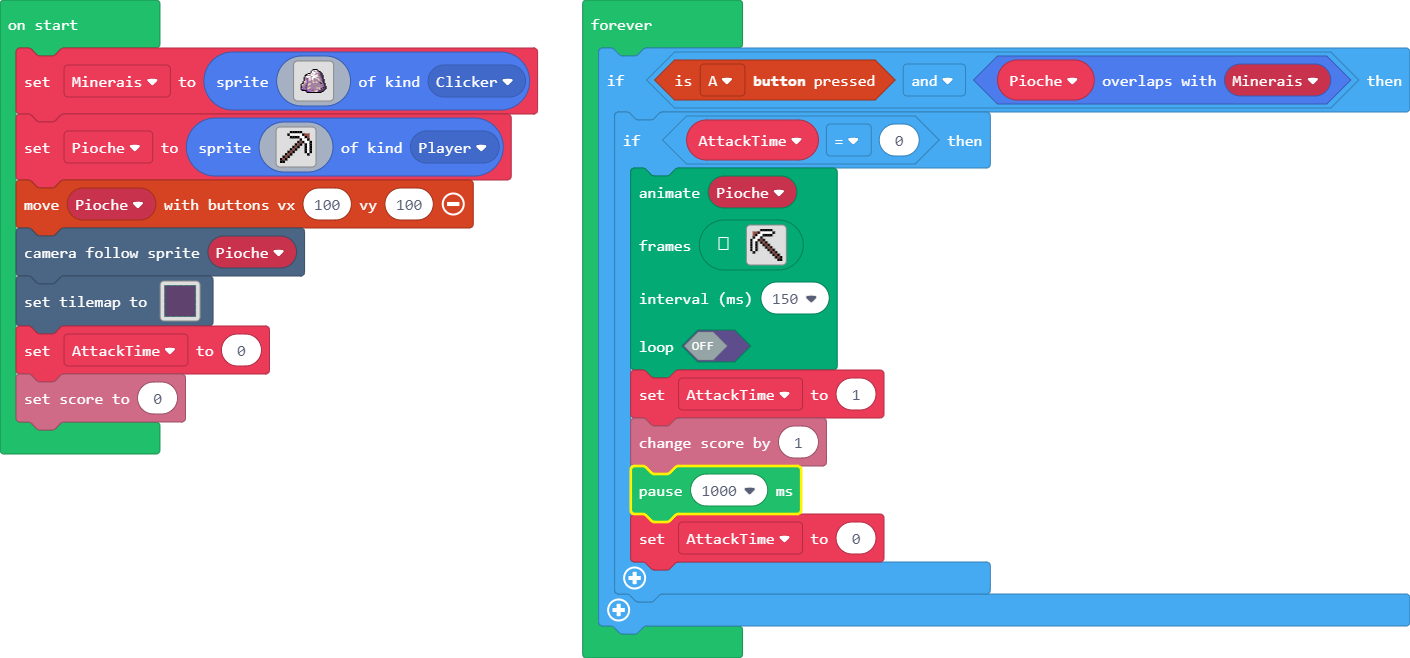
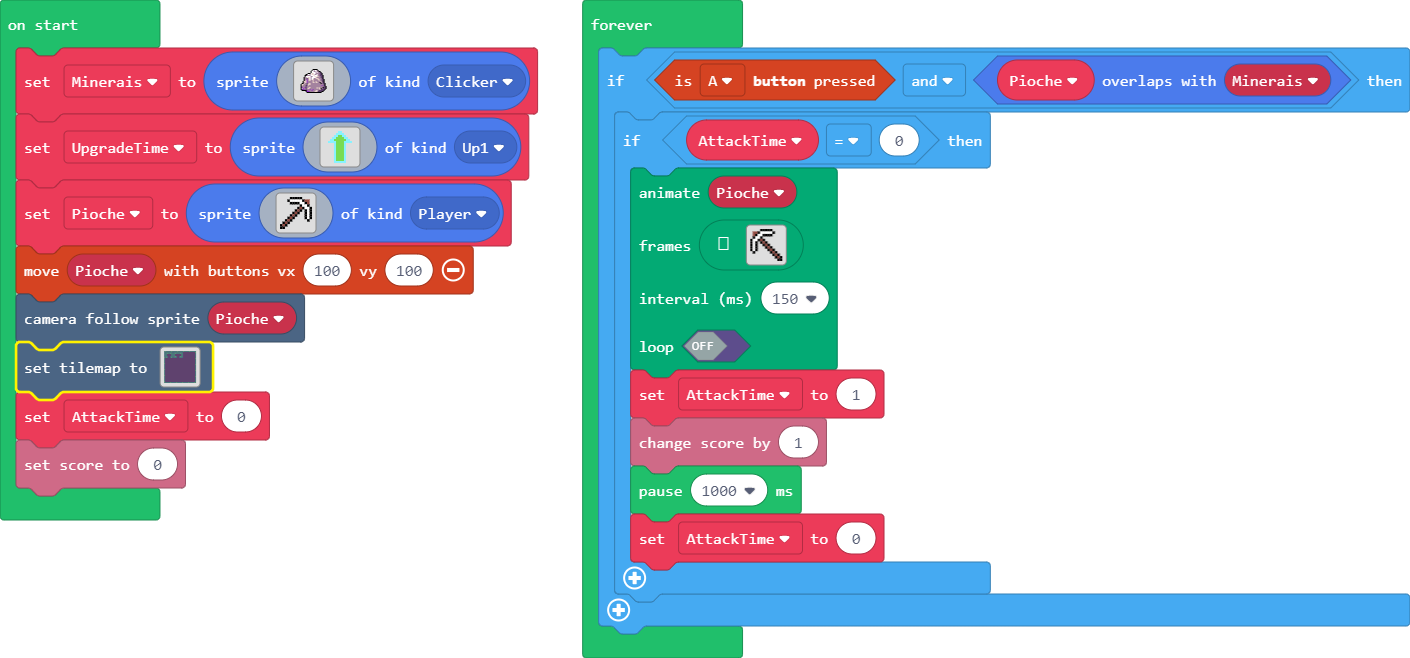
Update main.blocks, main.ts

Changed region(s): [[0.0, 0.152, 0.3745, 0.7903], [0.4369, 0.7599, 0.5617, 0.7903], [0.4369, 0.6991, 0.5617, 0.7295]]

diff --git a/main.ts b/main.ts
@@ -1,5 +1,6 @@
 namespace SpriteKind {
     export const Clicker = SpriteKind.create()
+    export const Up1 = SpriteKind.create()
 }
 namespace myTiles {
     //% blockIdentity=images._tile
@@ -56,6 +57,24 @@ let Minerais = sprites.create(img`
 . . . . . . . . . . . . . . . . . . . . . . . . . . . . . . . . 
 . . . . . . . . . . . . . . . . . . . . . . . . . . . . . . . . 
 `, SpriteKind.Clicker)
+let UpgradeTime = sprites.create(img`
+. . . . . . . 9 9 . . . . . . . 
+. . . . . . 9 9 9 9 . . . . . . 
+. . . . . 9 9 7 7 9 9 . . . . . 
+. . . . 9 9 7 7 7 7 9 9 . . . . 
+. . . 9 9 7 7 7 7 7 7 9 9 . . . 
+. . 9 9 9 9 7 7 7 7 9 9 9 9 . . 
+. . . . . 9 7 7 7 7 9 . . . . . 
+. . . . . 9 7 7 7 7 9 . . . . . 
+. . . . . 9 7 7 7 7 9 . . . . . 
+. . . . . 9 7 7 7 7 9 . . . . . 
+. . . . . 9 7 7 7 7 9 . . . . . 
+. . . . . 9 7 7 7 7 9 . . . . . 
+. . . . . 9 7 7 7 7 9 . . . . . 
+. . . . . 9 7 7 7 7 9 . . . . . 
+. . . . . 9 7 7 7 7 9 . . . . . 
+. . . . . 9 9 9 9 9 9 . . . . . 
+`, SpriteKind.Up1)
 let Pioche = sprites.create(img`
 . . . . f f f f f . . . . 
 . . . f 1 1 1 1 1 f e e . 
@@ -74,15 +93,15 @@ f f . . . . . . . . . . .
 controller.moveSprite(Pioche, 100, 100)
 scene.cameraFollowSprite(Pioche)
 tiles.setTilemap(tiles.createTilemap(
[2 lines of base64/hex data omitted]
             img`
 2 2 2 2 2 2 2 2 2 2 2 2 2 2 2 2 2 2 2 2 2 2 2 2 2 2 2 2 2 2 2 2 
-2 . . . . . . . . . . . . . . . . . . . . . . . . . . . . . . 2 
-2 . . . . . . . . . . . . . . . . . . . . . . . . . . . . . . 2 
-2 . . . . . . . . . . . . . . . . . . . . . . . . . . . . . . 2 
-2 . . . . . . . . . . . . . . . . . . . . . . . . . . . . . . 2 
-2 . . . . . . . . . . . . . . . . . . . . . . . . . . . . . . 2 
-2 . . . . . . . . . . . . . . . . . . . . . . . . . . . . . . 2 
+2 2 2 2 2 2 2 2 2 . . . . . . . . . . . . . . . . . . . . . . 2 
+2 2 2 2 2 2 2 2 2 . . . . . . . . . . . . . . . . . . . . . . 2 
+2 2 2 . . . . 2 2 . . . . . . . . . . . . . . . . . . . . . . 2 
+2 2 2 . . . . 2 2 . . . . . . . . . . . . . . . . . . . . . . 2 
+2 2 2 2 . . 2 2 2 . . . . . . . . . . . . . . . . . . . . . . 2 
+2 2 2 2 . . 2 2 2 . . . . . . . . . . . . . . . . . . . . . . 2 
 2 . . . . . . . . . . . . . . . . . . . . . . . . . . . . . . 2 
 2 . . . . . . . . . . . . . . . . . . . . . . . . . . . . . . 2 
 2 . . . . . . . . . . . . . . . . . . . . . . . . . . . . . . 2 
@@ -109,7 +128,7 @@ tiles.setTilemap(tiles.createTilemap(
 2 . . . . . . . . . . . . . . . . . . . . . . . . . . . . . . 2 
 2 2 2 2 2 2 2 2 2 2 2 2 2 2 2 2 2 2 2 2 2 2 2 2 2 2 2 2 2 2 2 2 
 `,
-            [myTiles.tile0,sprites.castle.tileGrass3,sprites.castle.tileGrass1,sprites.castle.tileGrass2,sprites.dungeon.greenOuterEast0,sprites.dungeon.greenOuterNorth0,sprites.dungeon.greenOuterNorthWest,sprites.dungeon.greenOuterNorthEast,sprites.dungeon.greenOuterSouthWest,sprites.dungeon.greenOuterSouth0,sprites.dungeon.greenOuterSouth1,sprites.dungeon.greenOuterSouthEast,sprites.dungeon.greenOuterWest1,sprites.dungeon.greenOuterWest0,sprites.castle.tileDarkGrass1,sprites.dungeon.greenOuterNorth2,sprites.dungeon.greenOuterEast2,sprites.dungeon.greenOuterWest2,sprites.dungeon.greenOuterSouth2,sprites.castle.tilePath5,sprites.dungeon.darkGroundCenter,sprites.dungeon.floorLight0],
+            [myTiles.tile0,sprites.castle.tileGrass3,sprites.castle.tileGrass1,sprites.castle.tileGrass2,sprites.dungeon.greenOuterEast0,sprites.dungeon.greenOuterNorth0,sprites.dungeon.greenOuterNorthWest,sprites.dungeon.greenOuterNorthEast,sprites.dungeon.greenOuterSouthWest,sprites.dungeon.greenOuterSouth0,sprites.dungeon.greenOuterSouth1,sprites.dungeon.greenOuterSouthEast,sprites.dungeon.greenOuterWest1,sprites.dungeon.greenOuterWest0,sprites.castle.tileDarkGrass1,sprites.dungeon.greenOuterNorth2,sprites.dungeon.greenOuterEast2,sprites.dungeon.greenOuterWest2,sprites.dungeon.greenOuterSouth2,sprites.castle.tilePath5,sprites.dungeon.darkGroundCenter,sprites.dungeon.floorLight0,sprites.dungeon.greenInnerNorthWest,sprites.dungeon.greenInnerNorthEast,sprites.dungeon.greenInnerSouthEast,sprites.dungeon.greenInnerSouthWest],
             TileScale.Sixteen
         ))
 let AttackTime = 0
